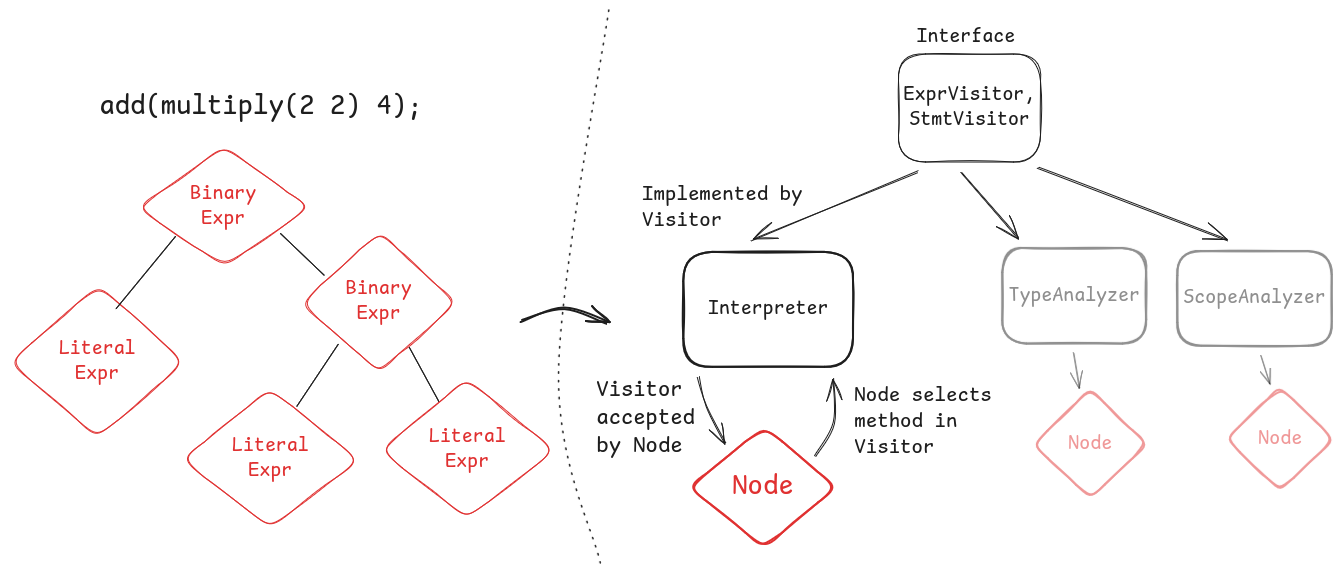
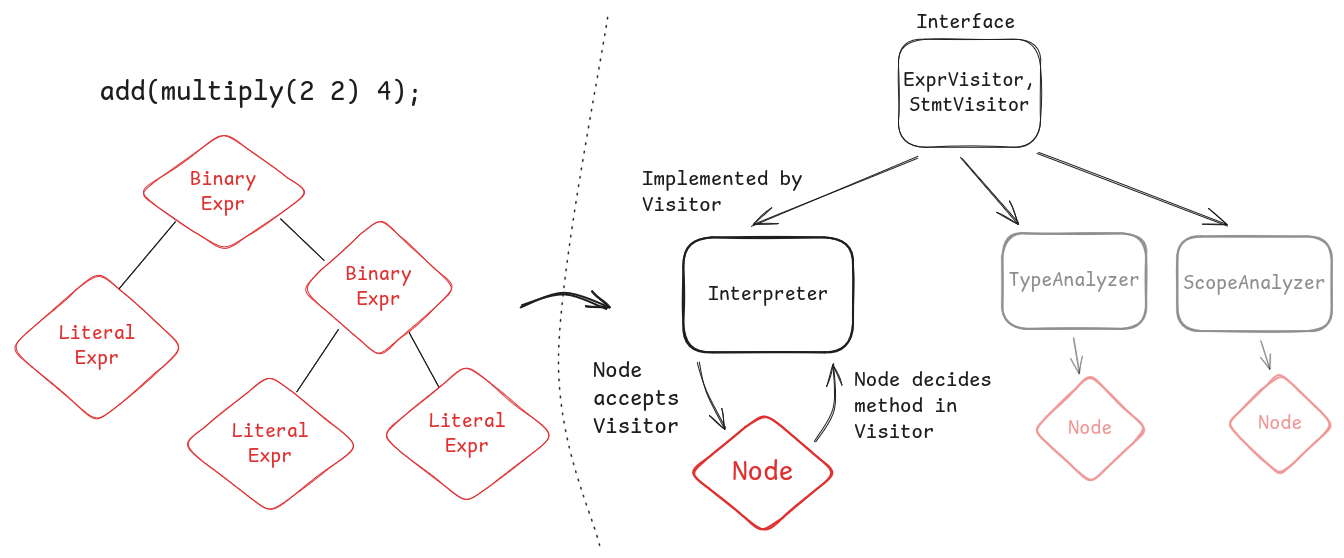
Tilføjelse til arkitektur

diff --git a/vvpl-template/report/architecture.tex b/vvpl-template/report/architecture.tex
@@ -61,7 +61,8 @@ implement the \texttt{Comparable} interface, ensuring the user receives feedback
 
 \subsubsection{Traversing the AST with the Visitor pattern}
 
-After lexing, the parser outputs an AST as an intermediate representation. 
+% After lexing, the parser outputs an AST as an intermediate representation. 
+The parser outputs an AST as an intermediate representation. 
 Abstractly representing our source code allows us to implement the methods necessary for translating the identified tokens of the grammar into program output.
 Ideally, our AST is abstracting away language specific details and carry just enough information to maintain the semantic meaning of the program allowing us 
 to check for semantic errors, interpret its content or, if necessary in the future, do optimization.
@@ -78,9 +79,9 @@ Føler at man så både får forklaret det her med double dispatch etc. OG helt 
 
 Lasse: Jeg har forsøgt at imødekomme dette nu.
 \end{comment}
-The program structure is then represented by nodes, each implemented as a polymorphic subclass of the \verb|Expr| or \verb|Stmt| superclass.
-This allows us to gradually unpack the semantic meaning following the given order and rules of the grammar.
-During our traversal, we want to perform specific operations on each node, based on the current stage of the semantic analysis or the interpretation, and instead of implementing all these different behaviours associated with each stage directly in methods on the classes themselves, we do so by implementing a \verb|Visitor| interface for each distinct traversal. 
+The program structure is then represented by nodes in a tree hierarchy. Following the Composite pattern, the nodes are implemented as a polymorphic subclass of the \verb|Expr| or \verb|Stmt| abstract class.
+This allows us to gradually unpack the semantic meaning following the given order and rules of the grammar using the Visitor pattern.
+During our traversal, we want to perform specific operations on each node, based on the current stage of the semantic analysis or the interpretation, and instead of implementing all these different behaviours associated with each stage directly in methods on the classes themselves, we do so by implementing a Visitor interface for each distinct traversal. 
 
 The visitor pattern promotes openness for extension and separation of responsibility by separating the storage of data from the use of that data, 
 allowing our interpreter to scale in size and functionality more easily. 
